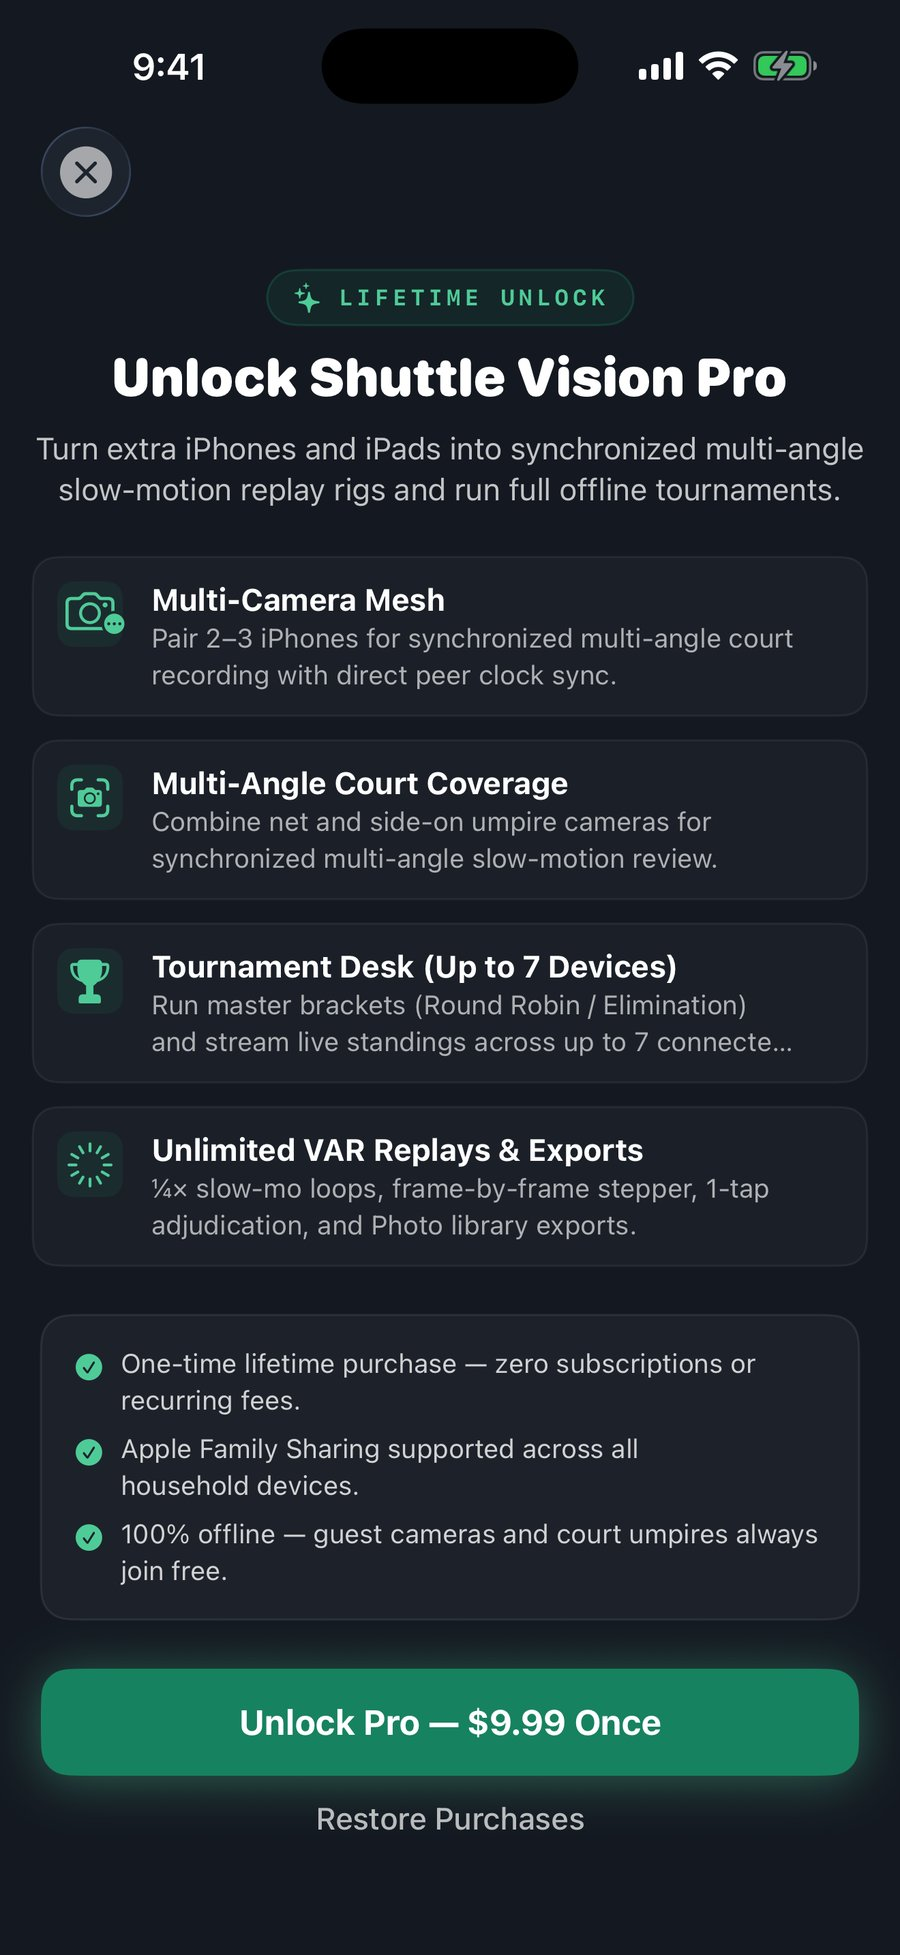
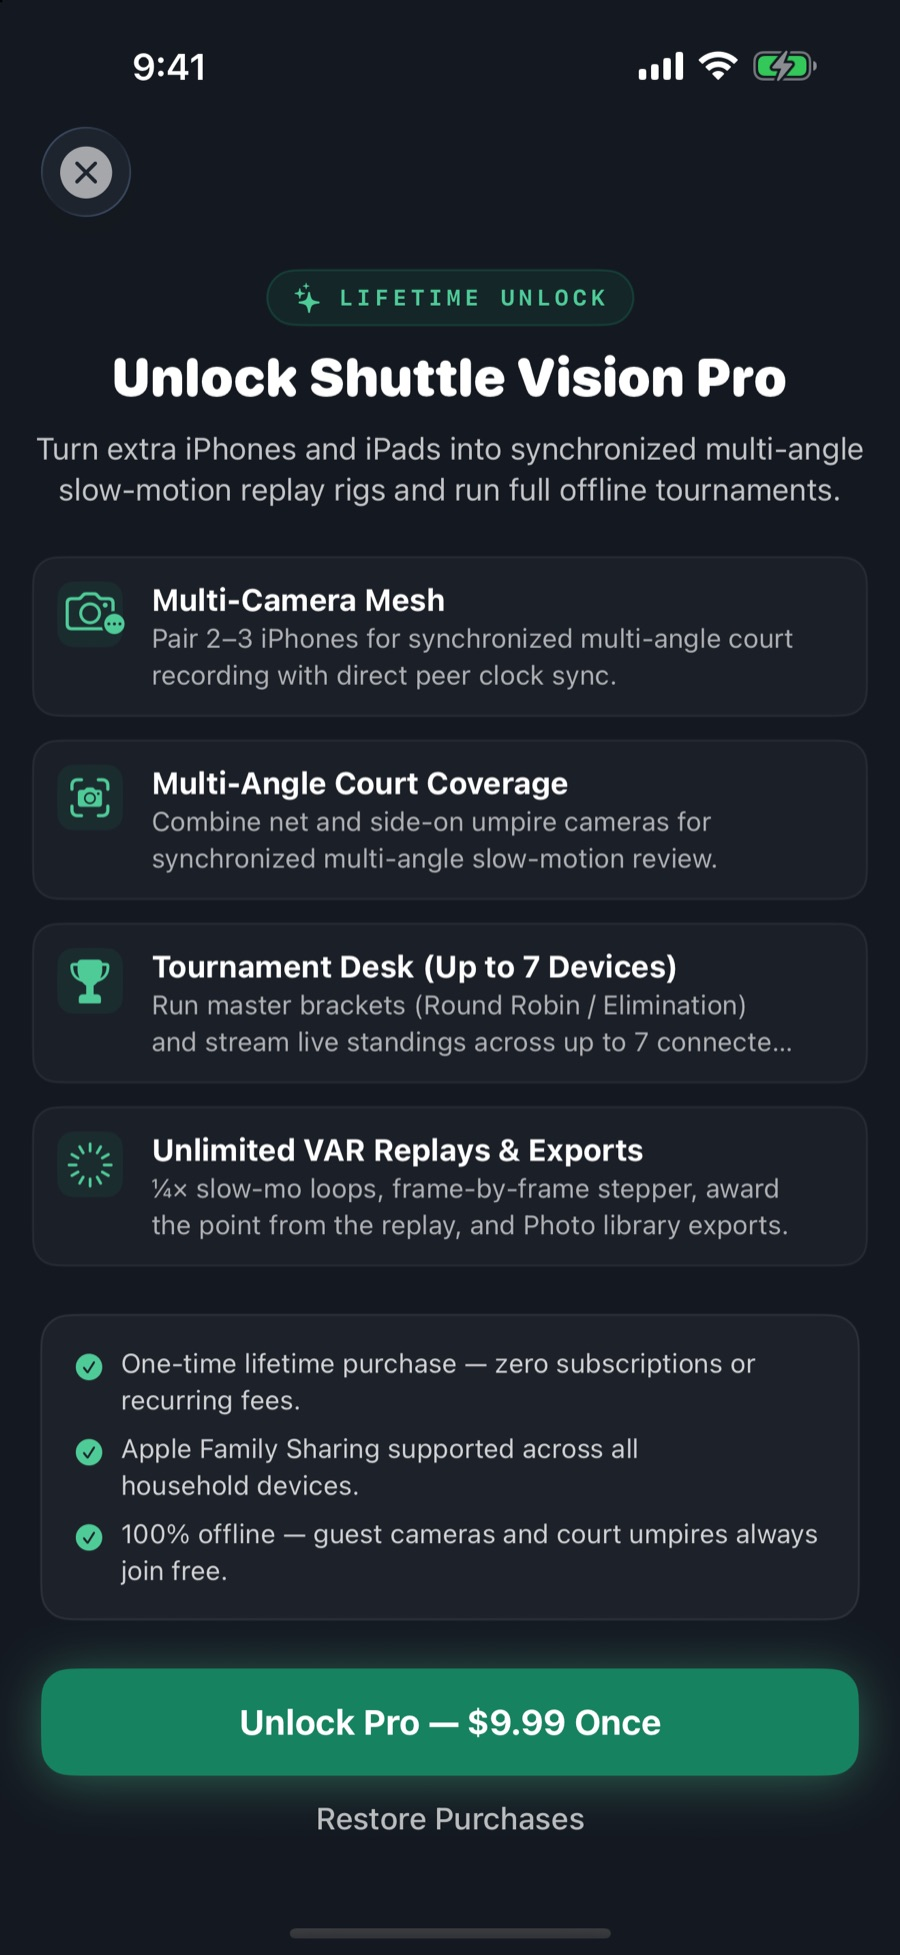
Shuttle Vision and Kitchen Vision are live: App Store links, status and guides
- Homepage tiles and cards: Coming Soon -> live, App Store badges, watchOS pill.
- Product pages: live status and App Store CTA in place of the TestFlight ask.
- Kitchen Vision gains a Getting Started guide (casual match, Apple Watch, multi-phone
  rig, tournament desk, practice); Shuttle Vision gains an Apple Watch guide step.
- Recapture Shuttle's paywall from 1.1 (8): "1-tap adjudication" is gone in-app.
- Copy fixes: no audible callout exists; handheld copy no longer implies in-match
  shuttle tracking or line review; court picker no longer promises 8 courts.

Changed region(s): [[0.1867, 0.5928, 0.8711, 0.6552], [0.3422, 0.0, 0.6533, 0.0624], [0.3422, 0.9673, 0.6844, 0.9985]]

diff --git a/shuttle_vision/index.html b/shuttle_vision/index.html
@@ -587,7 +587,7 @@
     <!-- Status Badge -->
     <div class="status-badge">
       <span class="dot"></span>
-      iOS 17+ · MULTI-CAMERA VAR &amp; BWF SCOREBOARD
+      Live on the App Store · iPhone, iPad &amp; Apple Watch
     </div>
 
     <!-- Product Head -->
@@ -748,7 +748,7 @@
 
     <div class="callout-box">
       <h4>Mount the Phone — Don't Hold It</h4>
-      <p>Shuttle Vision tracks the shuttle by measuring how it moves between frames, so it assumes the camera itself is holding still. A handheld phone adds its own motion to every measurement: the shuttle's apparent speed and direction pick up your hand's shake, rolling shutter skews fast movement, and the tracker loses the shuttle more often mid-flight. On a tripod, everything that moves in frame is genuinely moving. Any steady mount works — a tripod, a clamp on the net post, or the phone propped against a bag — but handheld is the one setup we don't recommend for rally counting or line review.</p>
+      <p>A replay is only as useful as the footage behind it. Held in your hand, the phone adds its own shake to every frame and rolling shutter bends fast movement, so a close call is harder to judge in slow motion &mdash; and Living Room Practice, which follows the shuttle frame to frame, loses it more often. Any steady mount works: a tripod, a clamp on the net post, or the phone propped against a bag.</p>
     </div>
 
     <div class="guide-steps">
@@ -756,7 +756,7 @@
         <div class="step-num">Guide 01</div>
         <h4>Solo &amp; Casual Match</h4>
         <p>1. Mount your iPhone horizontally on a tripod at the umpire chair or side of court (~1.2–1.6m high) so it sees the full court.<br>
-        2. Tap <strong>Start match</strong> on Home. To name the players first, or pick a preset like &ldquo;Us vs Them&rdquo;, open <strong>Match setup</strong>.<br>
+        2. Tap <strong>Start match</strong> on Home. Sides start as &ldquo;Us&rdquo; and &ldquo;Them&rdquo;; to type your own names or tap <strong>Preset names</strong>, open <strong>Match setup</strong> first.<br>
         3. Tap or swipe up (+1) to score. Tap <strong>VAR Review</strong> at any moment to watch a contested rally again in slow motion and make the call yourself.</p>
       </div>
 
@@ -764,7 +764,7 @@
         <div class="step-num">Guide 02</div>
         <h4>Multi-Phone Court Rig</h4>
         <p>1. Host taps <strong>Tournament</strong> &rarr; <strong>Multi-Phone Mesh</strong>, picks Duo or Pro, then taps <strong>Pair with Other Phones</strong> to show the court QR code.<br>
-        2. The second phone scans that code (or types the join code shown beneath it).<br>
+        2. On the second phone, tap the QR icon on Home and scan that code, or enter the code shown beneath it. Guests never need Pro.<br>
         3. Place the phones at opposing net poles (~40cm high). Both cameras synchronize clocks automatically over direct P2P.</p>
       </div>
 
@@ -773,9 +773,16 @@
         <h4>Master Tournament Desk</h4>
         <p>1. Open Shuttle Vision on an iPad and tap <strong>Tournament</strong> &rarr; <strong>Tournament Desk &amp; Standings</strong> &rarr; <strong>Create Tournament</strong>.<br>
         2. Paste your player roster and generate Round Robin, Single Elimination or Open Court Queue fixtures.<br>
-        3. Open the Master Desk and tap <strong>Connect Court Phone</strong>. Umpires scan the code, pick their court (Court 1–8), and begin live scorekeeping.</p>
+        3. Open the Master Desk and tap <strong>Connect Court Phone</strong>. Umpires scan the code, choose their assigned court, and begin live scorekeeping.</p>
       </div>
-    </div>
+      <div class="step-card">
+          <div class="step-num">Guide 04</div>
+          <h4>Apple Watch</h4>
+          <p>1. The Watch app comes with Shuttle Vision. If it isn't on your watch, open the Watch app on your iPhone and install it from there (watchOS 10 or later).<br>
+          2. Start a match on your iPhone, then open Shuttle Vision on your watch. It shows the same names, score, server and service court &mdash; the first-named side is yours.<br>
+          3. Tap or swipe up on a side to award the rally, swipe down to undo. Keep the phone nearby: the watch is a remote for the match on the phone.</p>
+        </div>
+      </div>
 
     <!-- SECTION 4: HARDWARE RECOMMENDATIONS -->
     <div class="section-label">
@@ -803,7 +810,7 @@
           <tr>
             <td><strong>Handheld Use</strong></td>
             <td>Not Recommended — Use Any Steady Mount</td>
-            <td>Camera shake is indistinguishable from shuttle movement to the tracker, and rolling shutter skews fast motion. Rally counting and replay review are both noticeably less reliable handheld.</td>
+            <td>Camera shake blurs the replay and rolling shutter skews fast motion, so close calls are harder to judge. Living Room Practice also loses the shuttle more often handheld.</td>
           </tr>
           <tr>
             <td><strong>Lighting</strong></td>
@@ -812,7 +819,7 @@
           </tr>
           <tr>
             <td><strong>Supported Devices</strong></td>
-            <td>iPhone XS / iPad 8th Gen or newer (iOS 17+)</td>
+            <td>iPhone and iPad on iOS 17 or later; Apple Watch on watchOS 10 or later</td>
             <td>Built on AVFoundation high-speed capture, the Apple Vision framework, and hardware video encoding.</td>
           </tr>
           <tr>
@@ -839,7 +846,7 @@
           <span class="faq-icon">+</span>
         </button>
         <div class="faq-answer">
-          <p>You can, and recording still works — but we don't recommend it. The shuttle tracker works out what the shuttle is doing by comparing its position frame to frame, which only means something if the camera stayed put. Handheld, your own movement gets added to the shuttle's, the tracker drops the shuttle more often mid-flight, and rolling shutter bends fast motion out of shape. A tripod is ideal, but anything that keeps the phone still — a net-post clamp, a bench, a propped-up bag — gets you most of the way there.</p>
+          <p>You can, and scoring and recording still work &mdash; but we don't recommend it for replays. Handheld, your own movement is added to every frame and rolling shutter bends fast motion out of shape, so a close call is harder to judge in slow motion. A tripod is ideal, but anything that keeps the phone still &mdash; a net-post clamp, a bench, a propped-up bag &mdash; gets you most of the way there.</p>
         </div>
       </div>
 
@@ -906,13 +913,13 @@
 
     <!-- Call to Action -->
     <div class="action-card">
-      <span class="status-badge" style="justify-content:center; color:var(--accent-orange);"><i class="dot" style="background:var(--accent-orange); box-shadow:0 0 10px var(--accent-orange);"></i>COMING SOON TO THE APP STORE</span>
+      <span class="status-badge" style="justify-content:center;"><span class="dot"></span>Live on the App Store</span>
       <h3>Ready to upgrade your badminton court?</h3>
-      <p>A new build with the Apple Watch app is on its way to App Review, and I'll release it by hand once I've tested it on real courts. If you run a club and want to try it before it ships, email me and I will add you to the TestFlight group.</p>
-      <a class="action-btn" href="mailto:peter@calmdownoscar.com?subject=Shuttle%20Vision%20TestFlight">
-        <svg width="20" height="20" viewBox="0 0 24 24" fill="none" stroke="currentColor" stroke-width="2" stroke-linecap="round" stroke-linejoin="round"><rect x="2" y="4" width="20" height="16" rx="2"/><path d="m22 7-8.97 5.7a1.94 1.94 0 0 1-2.06 0L2 7"/></svg>
-        Ask for a TestFlight invite
+      <p>Shuttle Vision is free to download for iPhone and iPad, with the Apple Watch app included. Scoring, VAR replay and casual play are free; Shuttle Vision Pro is a one-time lifetime unlock. Questions or a bug on court? <a href="mailto:peter@calmdownoscar.com?subject=Shuttle%20Vision" style="color:var(--ink);">Email me</a>.</p>
+      <a class="store-badge" href="https://apps.apple.com/app/shuttle-vision/id6804413172" style="display:inline-block; line-height:0;">
+        <img src="../assets/app-store-badge.svg" alt="Download on the App Store" width="150" height="50" style="height:50px; width:auto;">
       </a>
+      <br>
       <a class="applink" style="margin-top:6px; color:var(--muted); font-size:13px; text-decoration:underline;" href="privacy.html">Privacy Policy</a>
     </div>
 

diff --git a/kitchen_vision/index.html b/kitchen_vision/index.html
@@ -296,6 +296,19 @@
   }
   .foot a{ color:var(--muted); text-decoration:none; }
   .foot a:hover{ color:var(--accent); }
+
+  .guide-list{ margin:0; padding-left:20px; font-size:14.5px; color:var(--muted); line-height:1.6; }
+  .guide-list li{ margin-bottom:6px; }
+  .guide-list strong{ color:var(--ink); }
+  .cta{
+    background:var(--panel); border:1px solid var(--edge); border-radius:18px;
+    padding:32px 24px; text-align:center; margin-bottom:24px;
+  }
+  .cta h2{ font-size:22px; font-weight:800; color:#fff; margin-bottom:10px; }
+  .cta p{ font-size:15px; color:var(--muted); line-height:1.6; max-width:58ch; margin:0 auto 20px; }
+  .cta p a{ color:var(--ink); }
+  .store-badge{ display:inline-block; line-height:0; }
+  .store-badge img{ height:50px; width:auto; }
 </style>
 </head>
 <body>
@@ -321,7 +334,7 @@
       <img class="hero-icon" src="../assets/kitchen_vision/icon.png" alt="Kitchen Vision App Icon" width="76" height="76">
       <div class="status-badge">
         <span class="dot"></span>
-        Coming Soon · iPhone, iPad &amp; Apple Watch
+        Live on the App Store · iPhone, iPad &amp; Apple Watch
       </div>
       <h1>Kitchen Vision</h1>
       <p class="lead">Score, replay and run pickleball matches on the iPhones and iPads you already own. Kitchen Vision keeps the 0-0-2 start, side-out server rotation and 3-number callout for you, puts any disputed rally one tap away in &frac14;&times; slow motion, and runs a tournament desk &mdash; 100% offline, with an Apple Watch app to keep score from your wrist.</p>
@@ -440,6 +453,67 @@
         <h3>Multi-Court Live Standings on One iPad</h3>
         <p>Organize club round robins and elimination brackets on an iPad Master Desk. Court scorers connect by scanning a QR code and stream live scores and results back to the desk, across up to 7 connected devices &mdash; all peer-to-peer.</p>
       </div>
+    </div>
+
+    <!-- User Guide -->
+    <h2 class="section-title">Getting Started</h2>
+    <p class="section-sub">One phone is enough to score and replay. Add more only when you want more angles or a whole event.</p>
+    <div class="grid">
+      <div class="card">
+        <div class="card-num">Guide 01 · Casual Match</div>
+        <h3>Score a Game on One Phone</h3>
+        <ol class="guide-list">
+          <li>Mount or prop your iPhone steady beside the court so it sees the whole court. Handheld works for scoring, but the replay shakes.</li>
+          <li>Tap <strong>Start match</strong> on Home. Sides start as &ldquo;Us&rdquo; and &ldquo;Them&rdquo;; open <strong>Match setup</strong> first to type names or tap <strong>Preset names</strong>.</li>
+          <li>Tap or swipe up on a side to award the rally, swipe down to undo. The 3-number callout updates on every point. Tap <strong>VAR Review</strong> to replay a disputed rally.</li>
+        </ol>
+      </div>
+      <div class="card">
+        <div class="card-num">Guide 02 · Apple Watch</div>
+        <h3>Keep Score From Your Wrist</h3>
+        <ol class="guide-list">
+          <li>The Watch app comes with Kitchen Vision. If it isn't on your watch, install it from the Watch app on your iPhone (watchOS 10 or later).</li>
+          <li>Start a match on your iPhone, then open Kitchen Vision on your watch. The first-named side is yours.</li>
+          <li>Tap or swipe up to score, swipe down to undo. Keep the phone nearby &mdash; the watch is a remote for the match on the phone.</li>
+        </ol>
+      </div>
+      <div class="card">
+        <div class="card-num">Guide 03 · Multi-Phone Rig</div>
+        <h3>Add a Second or Third Angle</h3>
+        <ol class="guide-list">
+          <li>Host taps <strong>Tournament</strong> &rarr; <strong>Multi-Phone Mesh</strong>, picks Duo or Pro, then taps <strong>Pair with Other Phones</strong>.</li>
+          <li>On each extra phone, tap the QR icon on Home and scan the code, or enter the code shown beneath it. Guests never need Pro.</li>
+          <li>Place the second phone at the opposite net post, and a third beside the court for a side-on angle. No router or internet needed.</li>
+        </ol>
+      </div>
+      <div class="card">
+        <div class="card-num">Guide 04 · Tournament Desk</div>
+        <h3>Run a Club Event From an iPad</h3>
+        <ol class="guide-list">
+          <li>On an iPad, tap <strong>Tournament</strong> &rarr; <strong>Tournament Desk &amp; Standings</strong> &rarr; <strong>Create Tournament</strong>.</li>
+          <li>Paste your roster and generate Round Robin or elimination fixtures.</li>
+          <li>Open the Master Desk and tap <strong>Connect Court Phone</strong>. Court scorers scan the code, choose their court and score live &mdash; up to 7 connected devices.</li>
+        </ol>
+      </div>
+      <div class="card">
+        <div class="card-num">Guide 05 · Practice</div>
+        <h3>Drill Alone and Check Your Shot Speed</h3>
+        <ol class="guide-list">
+          <li>Tap <strong>Casual</strong> on Home, then <strong>Living Room Practice</strong>.</li>
+          <li>Stand the phone still and hit the ball in front of the camera. It counts your returns and keeps your best run.</li>
+          <li>Each shot's speed appears as a range, with your best of the session beside it.</li>
+        </ol>
+      </div>
+    </div>
+
+    <!-- Call to Action -->
+    <div class="cta">
+      <div class="status-badge"><span class="dot"></span>Live on the App Store</div>
+      <h2>Bring It to Your Next Game</h2>
+      <p>Kitchen Vision is free to download for iPhone and iPad, with the Apple Watch app included. Scoring and VAR replay are free; Kitchen Vision Pro is a one-time lifetime unlock for multi-phone rigs and the tournament desk. Questions or a bug on court? <a href="mailto:peter@calmdownoscar.com?subject=Kitchen%20Vision">Email me</a>.</p>
+      <a class="store-badge" href="https://apps.apple.com/app/kitchen-vision/id6804914154">
+        <img src="../assets/app-store-badge.svg" alt="Download on the App Store" width="150" height="50">
+      </a>
     </div>
   </div>
 </main>

diff --git a/index.html b/index.html
@@ -745,13 +745,14 @@
         <a class="index-tile" href="#shuttlevision">
           <div class="index-tile-top">
             <img class="index-icon" src="assets/shuttle-vision-icon.png" alt="Shuttle Vision icon" width="32" height="32" loading="eager">
-            <span class="index-status progress"><i class="dot amber"></i>Coming Soon</span>
+            <span class="index-status live"><i class="dot green"></i>App Store</span>
           </div>
           <h3 class="index-name">Shuttle Vision</h3>
           <p class="index-desc">Turns iPhones into an offline badminton scoreboard with slow-motion VAR replay and an Apple Watch app.</p>
           <div class="index-pills">
             <span class="pill">iOS</span>
             <span class="pill">iPadOS</span>
+            <span class="pill">watchOS</span>
           </div>
         </a>
 
@@ -759,13 +760,14 @@
         <a class="index-tile" href="#kitchenvision">
           <div class="index-tile-top">
             <img class="index-icon" src="assets/kitchen_vision/icon.png" alt="Kitchen Vision icon" width="32" height="32" loading="eager">
-            <span class="index-status progress"><i class="dot amber"></i>Coming Soon</span>
+            <span class="index-status live"><i class="dot green"></i>App Store</span>
           </div>
           <h3 class="index-name">Kitchen Vision</h3>
           <p class="index-desc">Pickleball scoring with 3-number callouts, VAR review and an Apple Watch app.</p>
           <div class="index-pills">
             <span class="pill">iOS</span>
             <span class="pill">iPadOS</span>
+            <span class="pill">watchOS</span>
           </div>
         </a>
 
@@ -1109,8 +1111,8 @@
         </article>
 
         <!-- Shuttle Vision -->
-        <article class="card progress reveal" id="shuttlevision">
-          <span class="status"><i class="dot amber"></i>Coming Soon</span>
+        <article class="card shipped reveal" id="shuttlevision">
+          <span class="status"><i class="dot green"></i>Live on the App Store — iPhone, iPad &amp; Apple Watch</span>
           <div class="card-head">
             <img class="app-icon" src="assets/shuttle-vision-icon.png" alt="Shuttle Vision app icon" width="44" height="44">
             <div>
@@ -1125,7 +1127,6 @@
             </div>
           </div>
           <p style="color:var(--muted); font-size:15px; margin-top:2px;">Built because nobody in a casual game can reliably say whose serve it is, which box it comes from, or what the score actually is. Turns the iPhones you already own into a scoreboard that keeps the rules for you, with slow-motion replay for the rallies that are genuinely disputed — 100% offline.</p>
-          <p style="color:var(--muted); font-size:15px; margin-top:10px;">A new build with an Apple Watch app is on its way to App Review. I'll release it by hand once I've tested it on real courts, because I'd rather ship it right than ship it on schedule.</p>
 
           <div class="card-preview">
             <img src="assets/screens/shuttlevision-scoreboard.webp" alt="Shuttle Vision: the match scoreboard, showing which team serves and from which box" width="350" height="760" loading="lazy" decoding="async">
@@ -1156,14 +1157,19 @@
             </div>
           </div>
 
+          <a class="store-badge" href="https://apps.apple.com/app/shuttle-vision/id6804413172">
+            <img src="assets/app-store-badge.svg" alt="Download on the App Store" width="120" height="40">
+          </a>
+
           <div class="links">
             <a class="applink" href="shuttle_vision/">Shuttle Vision Page <span class="arrow">→</span></a>
+            <a class="privacy-link" href="shuttle_vision/privacy.html">Privacy Policy</a>
           </div>
         </article>
 
         <!-- Kitchen Vision -->
-        <article class="card progress reveal" id="kitchenvision">
-          <span class="status"><i class="dot amber"></i>Coming Soon</span>
+        <article class="card shipped reveal" id="kitchenvision">
+          <span class="status"><i class="dot green"></i>Live on the App Store — iPhone, iPad &amp; Apple Watch</span>
           <div class="card-head">
             <img class="app-icon" src="assets/kitchen_vision/icon.png" alt="Kitchen Vision app icon" width="44" height="44">
             <div>
@@ -1191,7 +1197,7 @@
               <div class="cs-step-num">01 · The 0-0-2 Puzzle</div>
               <div class="cs-step-content">
                 <h4>Resolving the 3-number callout</h4>
-                <p>Pickleball doubles scoring has a unique opening serve rule: only one partner serves at match start (0-0-2). On side-outs, both players serve in turn (Server 1 then Server 2), swapping left and right boxes upon winning points. Kitchen Vision tracks the exact serve number, receiving positions, and audible callout automatically.</p>
+                <p>Pickleball doubles scoring has a unique opening serve rule: only one partner serves at match start (0-0-2). On side-outs, both players serve in turn (Server 1 then Server 2), swapping left and right boxes upon winning points. Kitchen Vision tracks the serve number and receiving positions for you, and shows the 3-number callout on screen for every point.</p>
               </div>
             </div>
             <div class="cs-step">
@@ -1209,6 +1215,10 @@
               </div>
             </div>
           </div>
+
+          <a class="store-badge" href="https://apps.apple.com/app/kitchen-vision/id6804914154">
+            <img src="assets/app-store-badge.svg" alt="Download on the App Store" width="120" height="40">
+          </a>
 
           <div class="links">
             <a class="applink" href="kitchen_vision/">Kitchen Vision Page <span class="arrow">→</span></a>
